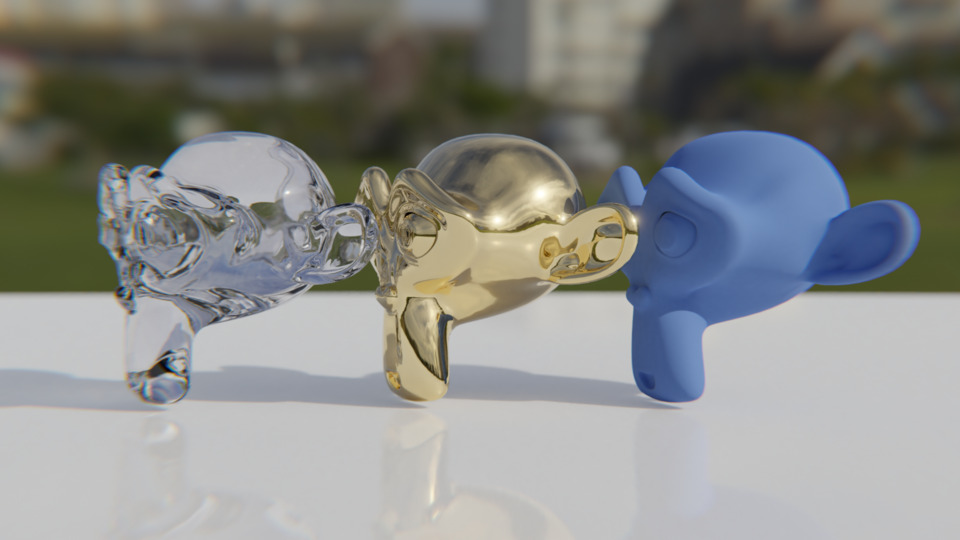
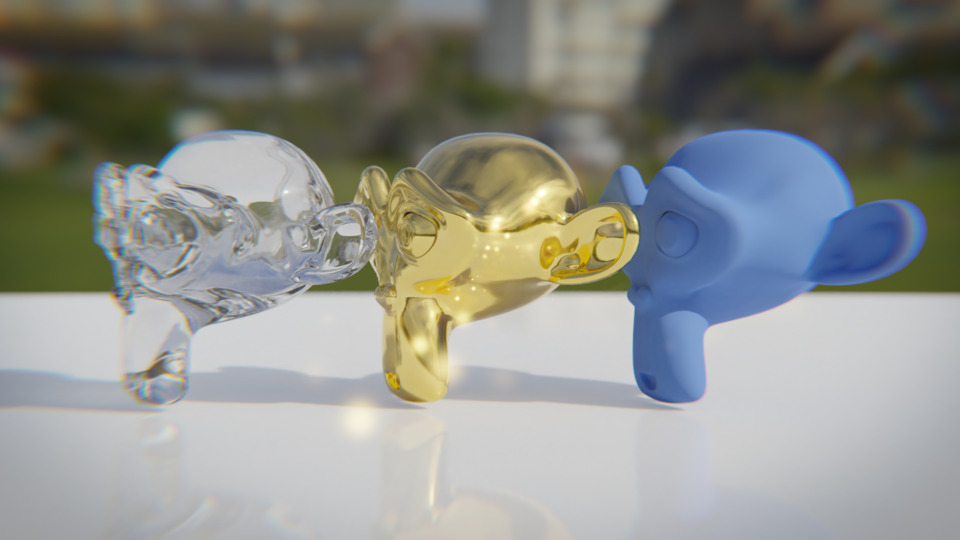
Update 04 & 05 scene settings, remove 06, move 12 to 06, and move 14 to 12

diff --git a/05_composition.py b/05_composition.py
@@ -35,23 +35,23 @@ def set_principled_node_as_ceramic(principled_node):
 def set_principled_node_as_gold(principled_node):
     utils.set_principled_node(
         principled_node=principled_node,
-        base_color=(1.00, 0.75, 0.35, 1.0),
+        base_color=(1.00, 0.71, 0.22, 1.0),
         metallic=1.0,
         specular=0.5,
-        roughness=0.0,
+        roughness=0.1,
     )
 
 
 def set_principled_node_as_glass(principled_node):
     utils.set_principled_node(principled_node=principled_node,
-                              base_color=(0.92, 0.92, 0.95, 1.0),
+                              base_color=(0.95, 0.95, 0.95, 1.0),
                               metallic=0.0,
                               specular=0.5,
                               roughness=0.0,
                               clearcoat=0.5,
                               clearcoat_roughness=0.030,
                               ior=1.45,
-                              transmission=1.0)
+                              transmission=0.98)
 
 
 def set_scene_objects():
@@ -113,19 +113,31 @@ def build_scene_composition(scene):
 
     render_layer_node = scene.node_tree.nodes.new(type="CompositorNodeRLayers")
 
+    vignette_node = utils.create_vignette_node(scene.node_tree)
+    vignette_node.inputs["Amount"].default_value = 0.70
+
     lens_distortion_node = scene.node_tree.nodes.new(type="CompositorNodeLensdist")
     lens_distortion_node.inputs["Distort"].default_value = -0.050
-    lens_distortion_node.inputs["Dispersion"].default_value = 0.050
+    lens_distortion_node.inputs["Dispersion"].default_value = 0.080
+
+    color_correction_node = scene.node_tree.nodes.new(type="CompositorNodeColorCorrection")
+    color_correction_node.master_saturation = 1.10
+    color_correction_node.master_gain = 1.40
 
     glare_node = scene.node_tree.nodes.new(type="CompositorNodeGlare")
-    glare_node.glare_type = 'FOG_GLOW'
+    glare_node.glare_type = 'GHOSTS'
+    glare_node.iterations = 2
     glare_node.quality = 'HIGH'
 
     composite_node = scene.node_tree.nodes.new(type="CompositorNodeComposite")
 
-    scene.node_tree.links.new(render_layer_node.outputs['Image'], lens_distortion_node.inputs['Image'])
-    scene.node_tree.links.new(lens_distortion_node.outputs['Image'], glare_node.inputs['Image'])
+    scene.node_tree.links.new(render_layer_node.outputs['Image'], vignette_node.inputs['Image'])
+    scene.node_tree.links.new(vignette_node.outputs['Image'], lens_distortion_node.inputs['Image'])
+    scene.node_tree.links.new(lens_distortion_node.outputs['Image'], color_correction_node.inputs['Image'])
+    scene.node_tree.links.new(color_correction_node.outputs['Image'], glare_node.inputs['Image'])
     scene.node_tree.links.new(glare_node.outputs['Image'], composite_node.inputs['Image'])
+
+    utils.arrange_nodes(scene.node_tree)
 
 
 # Args
@@ -162,5 +174,5 @@ build_scene_composition(scene)
 # Render Setting
 utils.set_cycles_renderer(scene, resolution_percentage, output_file_path, camera, num_samples, use_denoising=True)
 
-# Rendering
+# Render
 bpy.ops.render.render(animation=False, write_still=True)

diff --git a/04_principled_bsdf.py b/04_principled_bsdf.py
@@ -35,23 +35,23 @@ def set_principled_node_as_ceramic(principled_node):
 def set_principled_node_as_gold(principled_node):
     utils.set_principled_node(
         principled_node=principled_node,
-        base_color=(1.00, 0.75, 0.35, 1.0),
+        base_color=(1.00, 0.71, 0.22, 1.0),
         metallic=1.0,
         specular=0.5,
-        roughness=0.0,
+        roughness=0.1,
     )
 
 
 def set_principled_node_as_glass(principled_node):
     utils.set_principled_node(principled_node=principled_node,
-                              base_color=(0.92, 0.92, 0.95, 1.0),
+                              base_color=(0.95, 0.95, 0.95, 1.0),
                               metallic=0.0,
                               specular=0.5,
                               roughness=0.0,
                               clearcoat=0.5,
                               clearcoat_roughness=0.030,
                               ior=1.45,
-                              transmission=1.0)
+                              transmission=0.98)
 
 
 def set_scene_objects():

diff --git a/12_cloth.py b/12_cloth.py
@@ -1,4 +1,4 @@
-# blender --background --python 14_cloth.py -- </path/to/output/directory>/<name> <resolution_percentage> <num_samples>
+# blender --background --python 12_cloth.py -- </path/to/output/directory>/<name> <resolution_percentage> <num_samples>
 # ffmpeg -r 24 -i </path/to/output/directory>/<name>%04d.png -pix_fmt yuv420p out.mp4
 
 import bpy

diff --git a/06_split_tone.py b/06_split_tone.py
@@ -1,4 +1,4 @@
-# blender --background --python 12_split_tone.py -- </path/to/output/image> <resolution_percentage> <num_samples>
+# blender --background --python 06_split_tone.py -- </path/to/output/image> <resolution_percentage> <num_samples>
 
 import bpy
 import sys

diff --git a/README.md b/README.md
@@ -48,26 +48,21 @@ Python scripts for rendering images using Blender from command-line interface.
 
 ### 05_composition.py
 
-- Composition
-- Glare
-- Lens distortion
-- Chromatic aberration
+- Composition nodes
+- Node group
 
 ![05_composition](docs/compressed/05_composition.jpg)
 
-### 06_vignette.py
+### 06_split_tone.py
 
-- Vignette
-- Color correction
-- Node group
-- Automatic arrangement of nodes in the node editor
+- Split tone effect
+- Checker board texture
 
-![06_vignette](docs/compressed/06_vignette.jpg)
+![06_split_tone](docs/compressed/06_split_tone.jpg)
 
 ### 07_texturing.py
 
 - Image texture
-- UV calculation
 
 ![07_texturing](docs/compressed/07_texturing.jpg)
 
@@ -102,12 +97,13 @@ Python scripts for rendering images using Blender from command-line interface.
 
 ![11_mesh_visualization](docs/compressed/11_mesh_visualization.jpg)
 
-### 12_split_tone.py
+### 12_cloth.py
 
-- Split Tone
-- Checker board texture
+- Cloth modifier
+- Collision modifier
+- Area light
 
-![12_split_tone](docs/compressed/12_split_tone.jpg)
+![12_cloth](docs/compressed/12_cloth.gif)
 
 ### 13_matcap.py
 
@@ -117,14 +113,6 @@ Python scripts for rendering images using Blender from command-line interface.
 - Node frame
 
 ![13_matcap](docs/compressed/13_matcap.jpg)
-
-### 14_cloth.py
-
-- Cloth modifier
-- Collision modifier
-- Area light
-
-![14_cloth](docs/compressed/14_cloth.gif)
 
 ## For Docker Users
 
